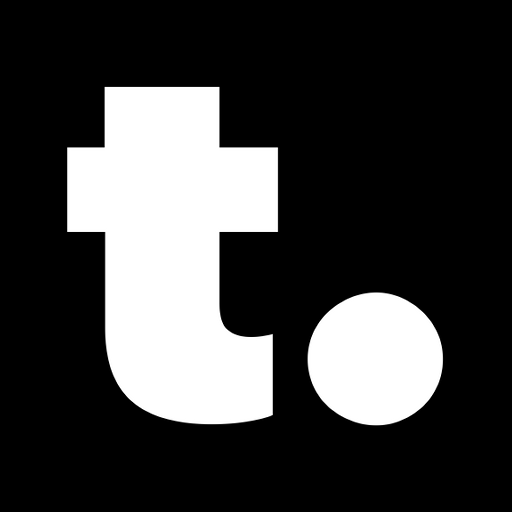
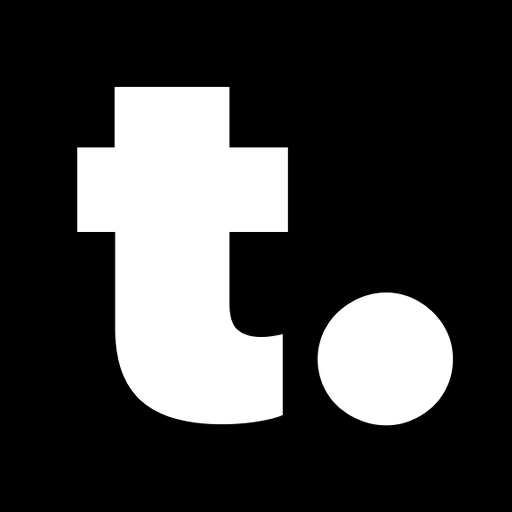
Fix Android PWA installation

diff --git a/src/components/InstallAppPrompt.tsx b/src/components/InstallAppPrompt.tsx
@@ -1,6 +1,6 @@
 "use client";
 
-import { useEffect, useState } from "react";
+import { useEffect, useRef, useState } from "react";
 import { X } from "lucide-react";
 import { useTranslations } from "next-intl";
 
@@ -18,6 +18,8 @@ type BeforeInstallPromptEvent = Event & {
 type NavigatorWithStandalone = Navigator & {
   standalone?: boolean;
 };
+
+type InstallEnvironment = "ios" | "android" | "edge-android" | "miui";
 
 function wasRecentlyDismissed() {
   try {
@@ -40,42 +42,82 @@ function isRunningStandalone() {
   return (
     window.matchMedia("(display-mode: standalone)").matches ||
     window.matchMedia("(display-mode: fullscreen)").matches ||
-    Boolean((window.navigator as NavigatorWithStandalone).standalone)
+    Boolean((window.navigator as NavigatorWithStandalone).standalone) ||
+    document.referrer.startsWith("android-app://")
   );
+}
+
+function getInstallEnvironment(userAgent: string): InstallEnvironment | null {
+  const isiOSDevice =
+    /iPad|iPhone|iPod/.test(userAgent) ||
+    (userAgent.includes("Macintosh") && window.navigator.maxTouchPoints > 1);
+
+  if (isiOSDevice) return "ios";
+  if (!/Android/i.test(userAgent)) return null;
+  if (/MiuiBrowser|XiaoMi\/MiuiBrowser/i.test(userAgent)) return "miui";
+  if (/EdgA\//i.test(userAgent)) return "edge-android";
+  return "android";
+}
+
+function openCurrentPageInChrome() {
+  const currentUrl = new URL(window.location.href);
+  const fallbackUrl = encodeURIComponent(currentUrl.href);
+  const intentPath = `${currentUrl.host}${currentUrl.pathname}${currentUrl.search}`;
+
+  window.location.href =
+    `intent://${intentPath}#Intent;scheme=${currentUrl.protocol.replace(":", "")};` +
+    `package=com.android.chrome;S.browser_fallback_url=${fallbackUrl};end`;
 }
 
 export default function InstallAppPrompt() {
   const copy = useTranslations("installApp");
   const [isVisible, setIsVisible] = useState(false);
-  const [isIOS, setIsIOS] = useState(false);
+  const [environment, setEnvironment] = useState<InstallEnvironment | null>(null);
   const [showInstructions, setShowInstructions] = useState(false);
   const [installPrompt, setInstallPrompt] = useState<BeforeInstallPromptEvent | null>(null);
+  const miuiNativePromptSeen = useRef(false);
 
   useEffect(() => {
     const userAgent = window.navigator.userAgent;
-    const isiOSDevice =
-      /iPad|iPhone|iPod/.test(userAgent) ||
-      (userAgent.includes("Macintosh") && window.navigator.maxTouchPoints > 1);
-    const isAndroidDevice = /Android/i.test(userAgent);
-    const isMobileLayout = window.matchMedia("(max-width: 820px)").matches;
+    const detectedEnvironment = getInstallEnvironment(userAgent);
     const standalone = isRunningStandalone();
 
+    if ("serviceWorker" in window.navigator) {
+      void window.navigator.serviceWorker
+        .register("/sw.js", {
+          scope: "/",
+          updateViaCache: "none",
+        })
+        .catch(() => undefined);
+    }
+
     document.documentElement.classList.toggle("pwa-standalone", standalone);
-    const canOfferMobileInstall = isiOSDevice || isAndroidDevice || isMobileLayout;
-    const canShow = canOfferMobileInstall && !standalone && !wasRecentlyDismissed();
+    const canShow = detectedEnvironment && !standalone && !wasRecentlyDismissed();
     const revealTimer = canShow
       ? window.setTimeout(() => {
-          setIsIOS(isiOSDevice);
+          if (detectedEnvironment === "miui" && miuiNativePromptSeen.current) return;
+          setEnvironment(detectedEnvironment);
           setIsVisible(true);
-        }, 1200)
+        }, detectedEnvironment === "miui" ? 3500 : 1200)
       : undefined;
 
     const handleBeforeInstallPrompt = (event: Event) => {
+      if (!detectedEnvironment) return;
+
+      if (detectedEnvironment === "miui") {
+        miuiNativePromptSeen.current = true;
+        setIsVisible(false);
+        return;
+      }
+
       event.preventDefault();
-      setInstallPrompt(event as BeforeInstallPromptEvent);
+
+      if (detectedEnvironment !== "edge-android") {
+        setInstallPrompt(event as BeforeInstallPromptEvent);
+      }
 
       if (!isRunningStandalone() && !wasRecentlyDismissed()) {
-        setIsIOS(isiOSDevice);
+        setEnvironment(detectedEnvironment);
         setIsVisible(true);
       }
     };
@@ -102,16 +144,30 @@ export default function InstallAppPrompt() {
   };
 
   const install = async () => {
+    if (environment === "miui") {
+      openCurrentPageInChrome();
+      return;
+    }
+
+    if (environment === "edge-android") {
+      setShowInstructions(true);
+      return;
+    }
+
     if (!installPrompt) {
       setShowInstructions(true);
       return;
     }
 
-    await installPrompt.prompt();
-    const choice = await installPrompt.userChoice;
+    try {
+      await installPrompt.prompt();
+      const choice = await installPrompt.userChoice;
 
-    if (choice.outcome === "accepted") {
-      setIsVisible(false);
+      if (choice.outcome === "accepted") {
+        setIsVisible(false);
+      }
+    } catch {
+      setShowInstructions(true);
     }
 
     setInstallPrompt(null);
@@ -123,18 +179,28 @@ export default function InstallAppPrompt() {
     <aside className="install-app-prompt" aria-labelledby="install-app-title">
       {showInstructions ? (
         <p id="install-app-title" className="install-app-instruction">
-          {isIOS ? copy("iosInstruction") : copy("androidInstruction")}
+          {environment === "ios"
+            ? copy("iosInstruction")
+            : environment === "edge-android"
+              ? copy("edgeInstruction")
+              : copy("androidInstruction")}
         </p>
       ) : (
         <p id="install-app-title" className="install-app-copy">
-          <strong>{copy("title")}</strong>
-          <span>{copy("description")}</span>
+          <strong>{environment === "miui" ? copy("miuiTitle") : copy("title")}</strong>
+          <span>
+            {environment === "miui" ? copy("miuiDescription") : copy("description")}
+          </span>
         </p>
       )}
 
       {!showInstructions ? (
         <button type="button" className="install-app-action" onClick={install}>
-          {installPrompt ? copy("install") : copy("showSteps")}
+          {environment === "miui"
+            ? copy("openChrome")
+            : installPrompt && environment !== "edge-android"
+              ? copy("install")
+              : copy("showSteps")}
         </button>
       ) : null}
 

diff --git a/src/app/manifest.ts b/src/app/manifest.ts
@@ -9,31 +9,36 @@ export default function manifest(): MetadataRoute.Manifest {
     start_url: "/",
     scope: "/",
     display: "standalone",
-    display_override: ["fullscreen", "standalone"],
-    orientation: "portrait-primary",
     background_color: "#f7f4ed",
     theme_color: "#1c1b1b",
+    prefer_related_applications: false,
     icons: [
       {
-        src: "/web-app-manifest-192x192.png",
+        src: "/tomeet-icon-v2-96x96.png",
+        sizes: "96x96",
+        type: "image/png",
+        purpose: "any",
+      },
+      {
+        src: "/tomeet-icon-v2-144x144.png",
+        sizes: "144x144",
+        type: "image/png",
+        purpose: "any",
+      },
+      {
+        src: "/tomeet-icon-v2-192x192.png",
         sizes: "192x192",
         type: "image/png",
         purpose: "any",
       },
       {
-        src: "/web-app-manifest-192x192.png",
-        sizes: "192x192",
-        type: "image/png",
-        purpose: "maskable",
-      },
-      {
-        src: "/web-app-manifest-512x512.png",
+        src: "/tomeet-icon-v2-512x512.png",
         sizes: "512x512",
         type: "image/png",
         purpose: "any",
       },
       {
-        src: "/web-app-manifest-512x512.png",
+        src: "/tomeet-icon-v2-maskable-512x512.png",
         sizes: "512x512",
         type: "image/png",
         purpose: "maskable",

diff --git a/public/sw.js b/public/sw.js
@@ -1,0 +1,43 @@
+const CACHE_NAME = "tomeet-pwa-v2";
+const OFFLINE_URL = "/offline.html";
+const PRECACHE_URLS = [
+  OFFLINE_URL,
+  "/manifest.webmanifest",
+  "/tomeet-icon-v2-192x192.png",
+  "/tomeet-icon-v2-512x512.png",
+];
+
+self.addEventListener("install", (event) => {
+  event.waitUntil(
+    Promise.all([
+      caches.open(CACHE_NAME).then((cache) => cache.addAll(PRECACHE_URLS)),
+      self.skipWaiting(),
+    ]),
+  );
+});
+
+self.addEventListener("activate", (event) => {
+  event.waitUntil(
+    Promise.all([
+      caches
+        .keys()
+        .then((cacheNames) =>
+          Promise.all(
+            cacheNames
+              .filter(
+                (cacheName) =>
+                  cacheName.startsWith("tomeet-pwa-") && cacheName !== CACHE_NAME,
+              )
+              .map((cacheName) => caches.delete(cacheName)),
+          ),
+        ),
+      self.clients.claim(),
+    ]),
+  );
+});
+
+self.addEventListener("fetch", (event) => {
+  if (event.request.method !== "GET" || event.request.mode !== "navigate") return;
+
+  event.respondWith(fetch(event.request).catch(() => caches.match(OFFLINE_URL)));
+});

diff --git a/public/offline.html b/public/offline.html
@@ -1,0 +1,45 @@
+<!doctype html>
+<html lang="zh-CN">
+  <head>
+    <meta charset="utf-8" />
+    <meta name="viewport" content="width=device-width, initial-scale=1" />
+    <meta name="theme-color" content="#1c1b1b" />
+    <title>TOMEET</title>
+    <style>
+      :root {
+        color-scheme: light;
+        font-family: system-ui, -apple-system, BlinkMacSystemFont, "Segoe UI", sans-serif;
+        background: #fdfdfc;
+        color: #1c1b1b;
+      }
+
+      body {
+        min-height: 100dvh;
+        margin: 0;
+        display: grid;
+        place-items: center;
+        text-align: center;
+      }
+
+      main {
+        padding: 2rem;
+      }
+
+      h1 {
+        margin: 0 0 0.5rem;
+        font-size: 1.5rem;
+      }
+
+      p {
+        margin: 0;
+        color: #6b6964;
+      }
+    </style>
+  </head>
+  <body>
+    <main>
+      <h1>TOMEET</h1>
+      <p>网络恢复后，请重新打开。</p>
+    </main>
+  </body>
+</html>

diff --git a/next.config.ts b/next.config.ts
@@ -5,6 +5,31 @@ const withNextIntl = createNextIntlPlugin("./src/i18n/request.ts");
 
 const nextConfig: NextConfig = {
   htmlLimitedBots: /.*/,
+  async headers() {
+    return [
+      {
+        source: "/sw.js",
+        headers: [
+          {
+            key: "Content-Type",
+            value: "application/javascript; charset=utf-8",
+          },
+          {
+            key: "Cache-Control",
+            value: "public, max-age=0, must-revalidate",
+          },
+          {
+            key: "Service-Worker-Allowed",
+            value: "/",
+          },
+          {
+            key: "Content-Security-Policy",
+            value: "default-src 'self'; script-src 'self'",
+          },
+        ],
+      },
+    ];
+  },
 };
 
 export default withNextIntl(nextConfig);

diff --git a/src/app/[locale]/layout.tsx b/src/app/[locale]/layout.tsx
@@ -114,6 +114,27 @@ export async function generateMetadata({ params }: Pick<Props, "params">): Promi
       title: "TOMEET",
       statusBarStyle: "black-translucent",
     },
+    icons: {
+      icon: [
+        {
+          url: "/tomeet-icon-v2-96x96.png",
+          sizes: "96x96",
+          type: "image/png",
+        },
+        {
+          url: "/tomeet-icon-v2-192x192.png",
+          sizes: "192x192",
+          type: "image/png",
+        },
+      ],
+      apple: [
+        {
+          url: "/tomeet-icon-v2-192x192.png",
+          sizes: "192x192",
+          type: "image/png",
+        },
+      ],
+    },
   };
 }
 
